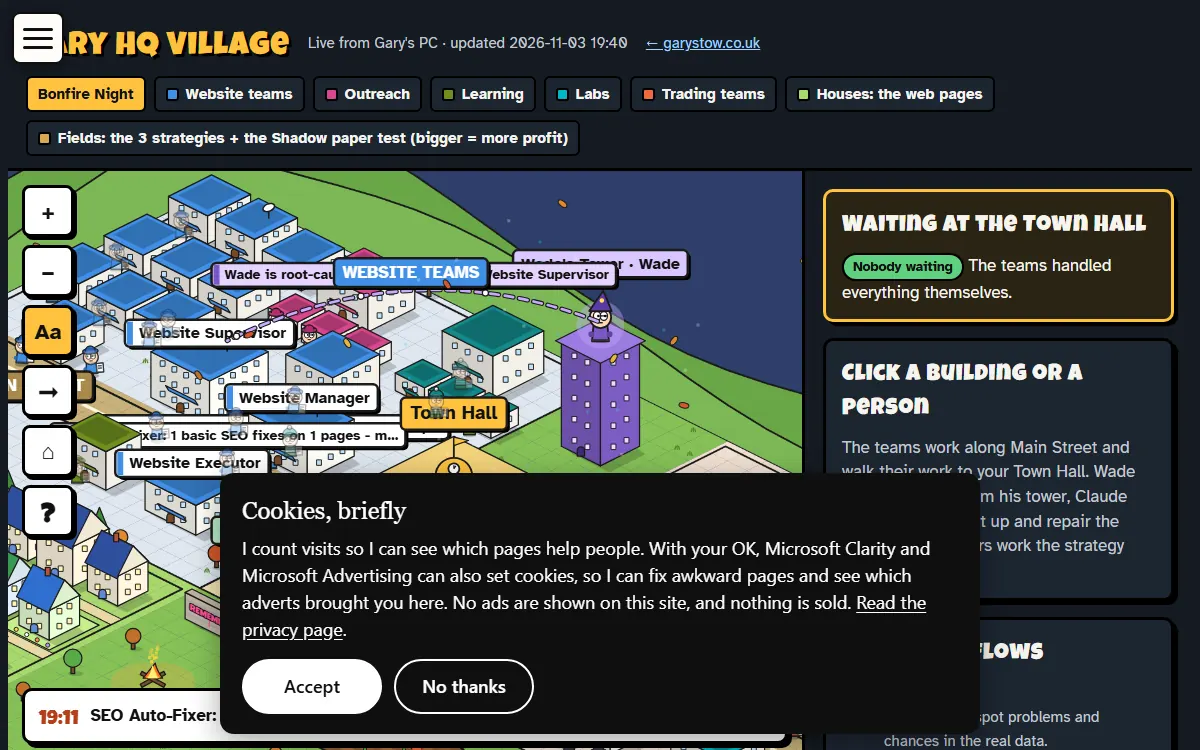
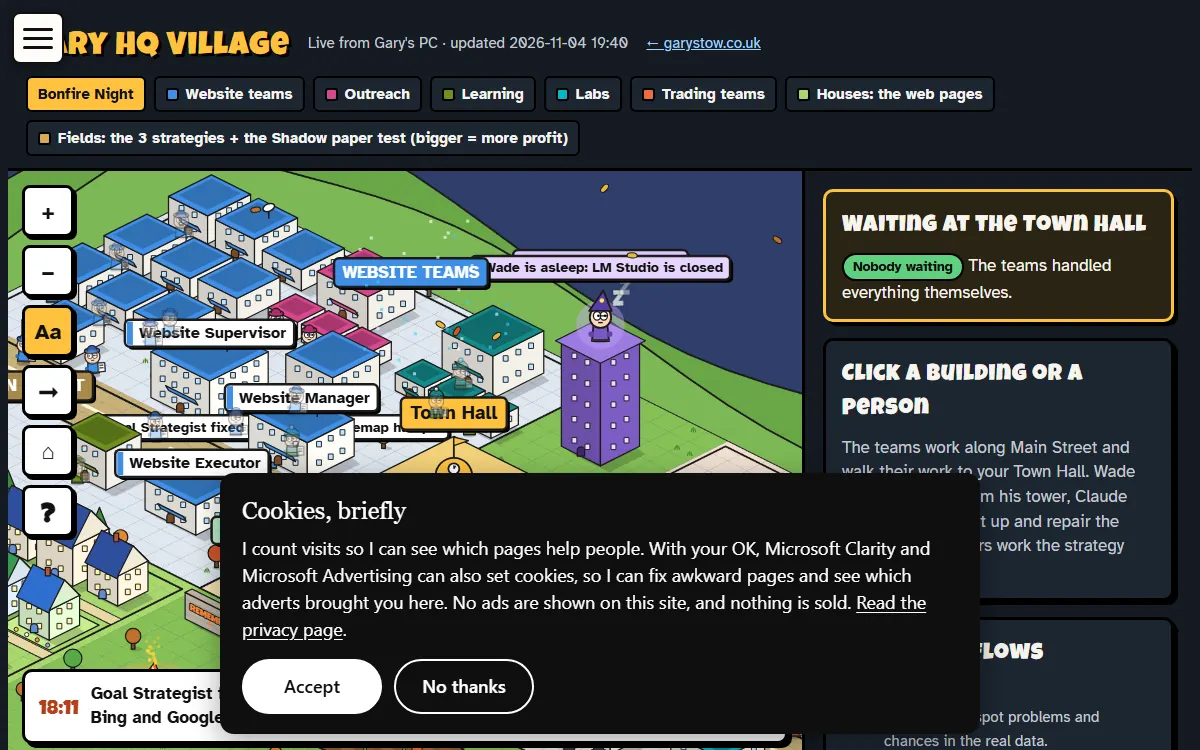
Village: refresh the public data (2026-11-04 19:40)

diff --git a/agents/map/index.html b/agents/map/index.html
@@ -112,7 +112,7 @@ section.map-sky{background:#070a12;color:#f4f6fb;padding:2rem 4rem 2.5rem;border
   <div class="map-stat"><b>64</b><span>Agents running</span></div>
   <div class="map-stat"><b>78</b><span>Hand-offs between them</span></div>
   <div class="map-stat"><b>3</b><span>Teams pulling toward 2 goals</span></div>
-  <div class="map-stat ok"><b>0</b><span>Problems right now: all green</span></div>
+  <div class="map-stat bad"><b>2</b><span>Problems right now</span></div>
 </div>
 
 <!-- THE SPHERE -->
@@ -175,7 +175,7 @@ section.map-sky{background:#070a12;color:#f4f6fb;padding:2rem 4rem 2.5rem;border
     <span class="section-num">02</span>
     <h2>Every agent on the map</h2>
   </div>
-  <p style="margin-bottom:1.5rem;max-width:65ch">Last checked 3 Nov 2026, 19:35. This public copy refreshes every evening.</p>
+  <p style="margin-bottom:1.5rem;max-width:65ch">Last checked 4 Nov 2026, 19:35. This public copy refreshes every evening.</p>
   <details open>
     <summary>The two goals (2)</summary>
     <dl>
